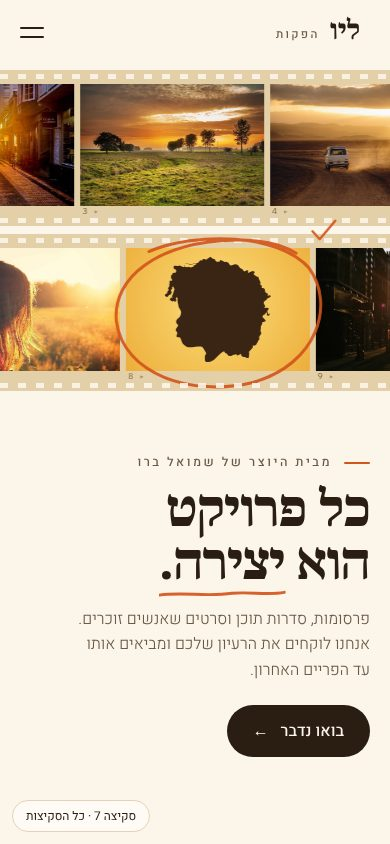
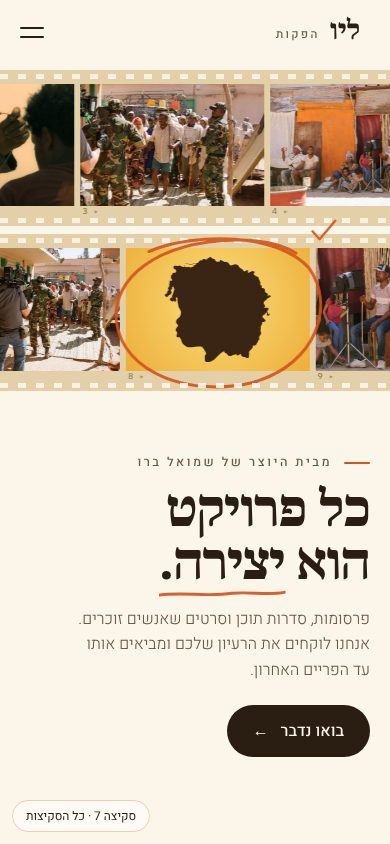
Sketches: real production photos everywhere, no video, new map page
Placeholder photos replaced with crops of five production photos, and
the placeholder work titles under them hidden. Openings rebuilt on
stills (full image, image in letters, collage, light animation). The
map page now shows every version at a glance with jump links.

Claude-Session: https://claude.ai/code/session_01WVQVaCY4fGJ7k5v4v453FP

Changed region(s): [[0.0, 0.0924, 1.0, 0.2464], [0.0, 0.2773, 0.3077, 0.4621], [0.8, 0.2773, 1.0, 0.4621]]

diff --git a/sketches/index.html b/sketches/index.html
@@ -66,242 +66,202 @@ main>.grp:first-child{margin-top:0}
 footer{border-top:1px solid var(--line);padding-block:22px 40px;font-size:13px;color:var(--mute)}
 footer a{text-underline-offset:3px}
 @media (prefers-reduced-motion:reduce){*{transition:none!important}}
+/* quick map */
+html{scroll-behavior:smooth;scroll-padding-top:64px}
+.jump{position:sticky;top:0;z-index:20;background:rgba(251,245,234,.92);-webkit-backdrop-filter:blur(10px);backdrop-filter:blur(10px);border-bottom:1px solid var(--line);margin-inline:calc(-1 * max(20px,env(safe-area-inset-left,0px)));padding:10px max(20px,env(safe-area-inset-left,0px))}
+.jump ul{display:flex;gap:8px;margin:0;padding:0;list-style:none;overflow-x:auto;scrollbar-width:none}
+.jump ul::-webkit-scrollbar{display:none}
+.jump a{display:block;white-space:nowrap;text-decoration:none;font-size:14px;font-weight:500;padding:7px 14px;border:1px solid var(--line);border-radius:99px;background:var(--paper)}
+.jump a:hover{border-color:var(--ink)}
+.quick{padding-block:clamp(22px,4vw,36px) 4px;display:grid;gap:clamp(18px,3vw,26px)}
+.quick h3{margin:0 0 10px}
+.tiles{display:grid;grid-template-columns:repeat(auto-fill,minmax(78px,1fr));gap:10px}
+.tile{display:grid;gap:6px;text-decoration:none;font-size:12.5px;font-weight:500;line-height:1.25;text-align:center}
+.tile img{width:100%;height:auto;aspect-ratio:390/700;object-fit:cover;object-position:top;border-radius:10px;border:1px solid var(--line);background:var(--paper);transition:transform .4s cubic-bezier(.2,.7,.2,1),border-color .3s}
+.tile:hover img{transform:translateY(-3px);border-color:var(--ink)}
+.tile b{display:block;font-weight:500;color:var(--gold-ink);font-size:11px;letter-spacing:.08em}
+@media (min-width:820px){.tiles{grid-template-columns:repeat(auto-fill,minmax(104px,1fr));gap:14px}.tile{font-size:13.5px}}
 </style>
 </head>
 <body>
 <div class="wrap">
   <header>
     <div class="brand"><i aria-hidden="true"></i><div><b>ליו</b><br><span>הפקות</span></div></div>
-    <h1>גרסה סופית, פתיחות וסקיצות</h1>
-    <p class="intro">תשעה כיוונים שונים לאותו תוכן: חמשת הראשונים, שניים נוספים ושניים ניטרליים. הטקסטים זהים לאתר הקיים, התמונות הן דוגמאות להמחשה בלבד. כדאי לפתוח כל סקיצה בטלפון, לגלול עד הסוף, ולבחור כיוון אחד או שניים לדיוק.</p>
-    <ul class="notes" aria-label="מה השתנה בכל הסקיצות">
-      <li>בלי לוח האירועים הרץ</li>
-      <li>בלי הקטע של ״האגר – ארץ״</li>
-      <li>בלי קטע ההרצאות</li>
-      <li>בלי טופס, רק טלפון ומייל</li>
-      <li>הצללית מופיעה פעם אחת במסך הפתיחה</li>
-    </ul>
+    <h1>כל הגרסאות במקום אחד</h1>
+    <p class="intro">ארבע עשרה גרסאות לאותו תוכן, עם תמונות מתוך הפקות של ליו. לחיצה על כל תמונה קטנה פותחת את הגרסה; למטה יש תיאור מפורט של כל אחת.</p>
   </header>
 
+  <nav class="jump" aria-label="קפיצה לקבוצה"><ul><li><a href="#final">גרסה סופית</a></li><li><a href="#open">פתיחות</a></li><li><a href="#warm">סקיצות חמות</a></li><li><a href="#neutral">סקיצות ניטרליות</a></li></ul></nav>
+
+  <section class="quick" aria-label="מבט מהיר">
+    <div><h3 class="grp">גרסה סופית</h3><div class="tiles"><a class="tile" href="final.html"><img src="previews/final-mobile.jpg" alt="" width="390" height="844"><span><b>גרסה סופית</b>נייר, עם סרטים בראש</span></a></div></div>
+    <div><h3 class="grp">פתיחות</h3><div class="tiles"><a class="tile" href="open-1.html"><img src="previews/open-1-mobile.jpg" alt="" width="390" height="844"><span><b>פתיחה 1</b>תמונה מלאה</span></a><a class="tile" href="open-2.html"><img src="previews/open-2-mobile.jpg" alt="" width="390" height="844"><span><b>פתיחה 2</b>תמונות באותיות</span></a><a class="tile" href="open-3.html"><img src="previews/open-3-mobile.jpg" alt="" width="390" height="844"><span><b>פתיחה 3</b>קולאז׳</span></a><a class="tile" href="open-4.html"><img src="previews/open-4-mobile.jpg" alt="" width="390" height="844"><span><b>פתיחה 4</b>הנפשת אור</span></a></div></div>
+    <div><h3 class="grp">סקיצות חמות</h3><div class="tiles"><a class="tile" href="1.html"><img src="previews/1-mobile.jpg" alt="" width="390" height="844"><span><b>סקיצה 1</b>קיר שמש</span></a><a class="tile" href="2.html"><img src="previews/2-mobile.jpg" alt="" width="390" height="844"><span><b>סקיצה 2</b>הראש מלא סרטים</span></a><a class="tile" href="3.html"><img src="previews/3-mobile.jpg" alt="" width="390" height="844"><span><b>סקיצה 3</b>פוסטר</span></a><a class="tile" href="4.html"><img src="previews/4-mobile.jpg" alt="" width="390" height="844"><span><b>סקיצה 4</b>גלריה</span></a><a class="tile" href="5.html"><img src="previews/5-mobile.jpg" alt="" width="390" height="844"><span><b>סקיצה 5</b>מסלול השמש</span></a><a class="tile" href="6.html"><img src="previews/6-mobile.jpg" alt="" width="390" height="844"><span><b>סקיצה 6</b>מוזאיקה</span></a><a class="tile" href="7.html"><img src="previews/7-mobile.jpg" alt="" width="390" height="844"><span><b>סקיצה 7</b>גיליון קונטקט</span></a></div></div>
+    <div><h3 class="grp">סקיצות ניטרליות</h3><div class="tiles"><a class="tile" href="8.html"><img src="previews/8-mobile.jpg" alt="" width="390" height="844"><span><b>סקיצה 8</b>נייר</span></a><a class="tile" href="9.html"><img src="previews/9-mobile.jpg" alt="" width="390" height="844"><span><b>סקיצה 9</b>אבן</span></a></div></div>
+  </section>
+
   <main>
-    <h3 class="grp">גרסה סופית</h3>
+    <h3 class="grp" id="final">גרסה סופית</h3>
 
     <a class="sk" href="final.html">
-      <div class="shots"><img class="d" src="previews/final-desktop.jpg" alt="הגרסה הסופית במחשב" width="1440" height="900"><img class="m" src="previews/final-mobile.jpg" alt="הגרסה הסופית בטלפון" width="390" height="844"></div>
+      <div class="shots"><img class="d" src="previews/final-desktop.jpg" alt="גרסה סופית במחשב" width="1440" height="900" loading="lazy"><img class="m" src="previews/final-mobile.jpg" alt="גרסה סופית בטלפון" width="390" height="844" loading="lazy"></div>
       <div class="txt">
         <span class="no">גרסה סופית</span>
         <h2>נייר, עם סרטים בראש</h2>
-        <p>הבסיס הניטרלי של סקיצה 8, עם הפריימים המתחלפים בתוך הצללית מסקיצה 2. סדר התוכן והניסוחים עודכנו לפי שתי הביקורות: המסר קודם, העבודות מיד אחריו.</p>
-        <dl class="meta">
-          <div><dt>פונטים</dt><dd>Heebo</dd></div>
-          <div><dt>צללית</dt><dd>חלון שדרכו רואים את הצילומים</dd></div>
-          <div><dt>סדר</dt><dd>פתיחה, עבודות, לקוחות, שירותים, תהליך, אודות, קשר</dd></div>
-        </dl>
+        <p>הבסיס הניטרלי של סקיצה 8, עם פריימים שמתחלפים בתוך הצללית. סדר התוכן והניסוחים עודכנו: המסר קודם, העבודות מיד אחריו.</p>
+        <dl class="meta"><div><dt>פונטים</dt><dd>Heebo</dd></div><div><dt>צללית</dt><dd>חלון שדרכו רואים את הצילומים</dd></div><div><dt>סדר</dt><dd>פתיחה, עבודות, לקוחות, שירותים, תהליך, אודות, קשר</dd></div></dl>
         <span class="go">לצפייה בגרסה <span aria-hidden="true">←</span></span>
       </div>
     </a>
-
-    <h3 class="grp">פתיחה עם וידאו או הנפשה</h3>
+    <h3 class="grp" id="open">ארבע פתיחות לגרסה הסופית</h3>
 
     <a class="sk" href="open-1.html">
-      <div class="shots"><img class="d" src="previews/open-1-desktop.jpg" alt="פתיחה 1 במחשב" width="1440" height="900"><img class="m" src="previews/open-1-mobile.jpg" alt="פתיחה 1 בטלפון" width="390" height="844"></div>
+      <div class="shots"><img class="d" src="previews/open-1-desktop.jpg" alt="פתיחה 1 במחשב" width="1440" height="900" loading="lazy"><img class="m" src="previews/open-1-mobile.jpg" alt="פתיחה 1 בטלפון" width="390" height="844" loading="lazy"></div>
       <div class="txt">
         <span class="no">פתיחה 1</span>
-        <h2>וידאו מלא</h2>
-        <p>הווידאו ממלא את כל מסך הפתיחה, והטקסט יושב על לוח בהיר שנחתך לתוכו.</p>
-        <dl class="meta">
-          <div><dt>רקע</dt><dd>וידאו מקצה לקצה</dd></div>
-          <div><dt>צללית</dt><dd>קטנה, בלוגו שבתפריט</dd></div>
-          <div><dt>מתאים ל</dt><dd>שואוריל רחב ומרשים</dd></div>
-        </dl>
+        <h2>תמונה מלאה</h2>
+        <p>תמונות מתחלפות ממלאות את כל מסך הפתיחה, והטקסט יושב על לוח בהיר שנחתך לתוכן.</p>
+        <dl class="meta"><div><dt>רקע</dt><dd>תמונות מקצה לקצה</dd></div><div><dt>צללית</dt><dd>קטנה, בלוגו שבתפריט</dd></div><div><dt>בהמשך</dt><dd>אפשר להחליף לווידאו</dd></div></dl>
         <span class="go">לצפייה בפתיחה <span aria-hidden="true">←</span></span>
       </div>
     </a>
 
     <a class="sk" href="open-2.html">
-      <div class="shots"><img class="d" src="previews/open-2-desktop.jpg" alt="פתיחה 2 במחשב" width="1440" height="900"><img class="m" src="previews/open-2-mobile.jpg" alt="פתיחה 2 בטלפון" width="390" height="844"></div>
+      <div class="shots"><img class="d" src="previews/open-2-desktop.jpg" alt="פתיחה 2 במחשב" width="1440" height="900" loading="lazy"><img class="m" src="previews/open-2-mobile.jpg" alt="פתיחה 2 בטלפון" width="390" height="844" loading="lazy"></div>
       <div class="txt">
         <span class="no">פתיחה 2</span>
-        <h2>וידאו באותיות</h2>
-        <p>הכותרת הענקית היא החלון: הווידאו נראה רק דרך האותיות, על רקע נקי.</p>
-        <dl class="meta">
-          <div><dt>רקע</dt><dd>וידאו בתוך הכותרת</dd></div>
-          <div><dt>צללית</dt><dd>קטנה, בלוגו שבתפריט</dd></div>
-          <div><dt>מתאים ל</dt><dd>כמעט כל חומר, גם מעורב</dd></div>
-        </dl>
+        <h2>תמונות באותיות</h2>
+        <p>הכותרת הענקית היא החלון: התמונות נראות רק דרך האותיות, על רקע נקי.</p>
+        <dl class="meta"><div><dt>רקע</dt><dd>תמונות בתוך הכותרת</dd></div><div><dt>צללית</dt><dd>קטנה, בלוגו שבתפריט</dd></div><div><dt>בהמשך</dt><dd>אפשר להחליף לווידאו</dd></div></dl>
         <span class="go">לצפייה בפתיחה <span aria-hidden="true">←</span></span>
       </div>
     </a>
 
     <a class="sk" href="open-3.html">
-      <div class="shots"><img class="d" src="previews/open-3-desktop.jpg" alt="פתיחה 3 במחשב" width="1440" height="900"><img class="m" src="previews/open-3-mobile.jpg" alt="פתיחה 3 בטלפון" width="390" height="844"></div>
+      <div class="shots"><img class="d" src="previews/open-3-desktop.jpg" alt="פתיחה 3 במחשב" width="1440" height="900" loading="lazy"><img class="m" src="previews/open-3-mobile.jpg" alt="פתיחה 3 בטלפון" width="390" height="844" loading="lazy"></div>
       <div class="txt">
         <span class="no">פתיחה 3</span>
-        <h2>וידאו בתוך הצללית</h2>
-        <p>כמו הגרסה הסופית, אבל בראש של הילד רץ וידאו אמיתי במקום תמונות מתחלפות.</p>
-        <dl class="meta">
-          <div><dt>רקע</dt><dd>וידאו בתוך הראש</dd></div>
-          <div><dt>צללית</dt><dd>גדולה, חלון לווידאו</dd></div>
-          <div><dt>מתאים ל</dt><dd>קטעים עם מרכז ברור</dd></div>
-        </dl>
+        <h2>קולאז׳</h2>
+        <p>שלוש תמונות מהסט ומהסרט מרחפות לאט ליד הכותרת.</p>
+        <dl class="meta"><div><dt>רקע</dt><dd>נקי, עם שלוש תמונות</dd></div><div><dt>צללית</dt><dd>קטנה, בלוגו שבתפריט</dd></div><div><dt>תנועה</dt><dd>ריחוף עדין</dd></div></dl>
         <span class="go">לצפייה בפתיחה <span aria-hidden="true">←</span></span>
       </div>
     </a>
 
     <a class="sk" href="open-4.html">
-      <div class="shots"><img class="d" src="previews/open-4-desktop.jpg" alt="פתיחה 4 במחשב" width="1440" height="900"><img class="m" src="previews/open-4-mobile.jpg" alt="פתיחה 4 בטלפון" width="390" height="844"></div>
+      <div class="shots"><img class="d" src="previews/open-4-desktop.jpg" alt="פתיחה 4 במחשב" width="1440" height="900" loading="lazy"><img class="m" src="previews/open-4-mobile.jpg" alt="פתיחה 4 בטלפון" width="390" height="844" loading="lazy"></div>
       <div class="txt">
         <span class="no">פתיחה 4</span>
         <h2>הנפשת אור</h2>
-        <p>בלי חומר מצולם: כתמי אור חמים נעים לאט מאחורי הצללית.</p>
-        <dl class="meta">
-          <div><dt>רקע</dt><dd>הנפשה שנוצרת בדפדפן</dd></div>
-          <div><dt>צללית</dt><dd>גדולה, פחם מלא</dd></div>
-          <div><dt>מתאים ל</dt><dd>עלייה לאוויר לפני שיש וידאו</dd></div>
-        </dl>
+        <p>בלי תמונה בפתיחה: כתמי אור חמים נעים לאט מאחורי הצללית.</p>
+        <dl class="meta"><div><dt>רקע</dt><dd>הנפשה שנוצרת בדפדפן</dd></div><div><dt>צללית</dt><dd>גדולה, פחם מלא</dd></div><div><dt>תנועה</dt><dd>אור שזז לאט</dd></div></dl>
         <span class="go">לצפייה בפתיחה <span aria-hidden="true">←</span></span>
       </div>
     </a>
+    <h3 class="grp" id="warm">שבע סקיצות בגוון חם</h3>
 
-    <h3 class="grp">חמשת הכיוונים הראשונים</h3>
     <a class="sk" href="1.html">
-      <div class="shots"><img class="d" src="previews/1-desktop.jpg" alt="סקיצה 1 במחשב" width="1440" height="900"><img class="m" src="previews/1-mobile.jpg" alt="סקיצה 1 בטלפון" width="390" height="844"></div>
+      <div class="shots"><img class="d" src="previews/1-desktop.jpg" alt="סקיצה 1 במחשב" width="1440" height="900" loading="lazy"><img class="m" src="previews/1-mobile.jpg" alt="סקיצה 1 בטלפון" width="390" height="844" loading="lazy"></div>
       <div class="txt">
         <span class="no">סקיצה 1</span>
         <h2>קיר שמש</h2>
         <p>הכי קרוב לתמונת המותג: קיר מואר בשמש של אחר הצהריים, צללי עלים שזזים לאט, והצללית מול שמש עולה.</p>
-        <dl class="meta">
-          <div><dt>פונטים</dt><dd>Frank Ruhl Libre · Heebo</dd></div>
-          <div><dt>צללית</dt><dd>חום אספרסו עם אור שמש מאחור</dd></div>
-          <div><dt>תנועה</dt><dd>זריחה בטעינה, צללי עלים חיים</dd></div>
-        </dl>
+        <dl class="meta"><div><dt>פונטים</dt><dd>Frank Ruhl Libre · Heebo</dd></div><div><dt>צללית</dt><dd>חום אספרסו עם אור שמש מאחור</dd></div><div><dt>תנועה</dt><dd>זריחה בטעינה, צללי עלים חיים</dd></div></dl>
         <span class="go">לצפייה בסקיצה <span aria-hidden="true">←</span></span>
       </div>
     </a>
 
     <a class="sk" href="2.html">
-      <div class="shots"><img class="d" src="previews/2-desktop.jpg" alt="סקיצה 2 במחשב" width="1440" height="900"><img class="m" src="previews/2-mobile.jpg" alt="סקיצה 2 בטלפון" width="390" height="844"></div>
+      <div class="shots"><img class="d" src="previews/2-desktop.jpg" alt="סקיצה 2 במחשב" width="1440" height="900" loading="lazy"><img class="m" src="previews/2-mobile.jpg" alt="סקיצה 2 בטלפון" width="390" height="844" loading="lazy"></div>
       <div class="txt">
         <span class="no">סקיצה 2</span>
         <h2>הראש מלא סרטים</h2>
         <p>הצללית היא המסך: בתוך הראש של הילד מתחלפים פריימים מההפקות. נקי, מודרני ומדויק.</p>
-        <dl class="meta">
-          <div><dt>פונטים</dt><dd>IBM Plex Sans Hebrew · IBM Plex Mono</dd></div>
-          <div><dt>צללית</dt><dd>חלון שדרכו רואים את הצילומים</dd></div>
-          <div><dt>תנועה</dt><dd>פריימים מתחלפים בתוך הצללית</dd></div>
-        </dl>
+        <dl class="meta"><div><dt>פונטים</dt><dd>IBM Plex Sans Hebrew · IBM Plex Mono</dd></div><div><dt>צללית</dt><dd>חלון שדרכו רואים את הצילומים</dd></div><div><dt>תנועה</dt><dd>פריימים מתחלפים בתוך הצללית</dd></div></dl>
         <span class="go">לצפייה בסקיצה <span aria-hidden="true">←</span></span>
       </div>
     </a>
 
     <a class="sk" href="3.html">
-      <div class="shots"><img class="d" src="previews/3-desktop.jpg" alt="סקיצה 3 במחשב" width="1440" height="900"><img class="m" src="previews/3-mobile.jpg" alt="סקיצה 3 בטלפון" width="390" height="844"></div>
+      <div class="shots"><img class="d" src="previews/3-desktop.jpg" alt="סקיצה 3 במחשב" width="1440" height="900" loading="lazy"><img class="m" src="previews/3-mobile.jpg" alt="סקיצה 3 בטלפון" width="390" height="844" loading="lazy"></div>
       <div class="txt">
         <span class="no">סקיצה 3</span>
         <h2>פוסטר</h2>
-        <p>טיפוגרפיה ענקית כמו כרזת פסטיבל, צללית כתומה שמשתלבת באותיות, ומשטחי צבע חמים. הכיוון הצעיר והנועז.</p>
-        <dl class="meta">
-          <div><dt>פונטים</dt><dd>Karantina · Noto Sans Hebrew</dd></div>
-          <div><dt>צללית</dt><dd>כתום שרוף, שטוח</dd></div>
-          <div><dt>תנועה</dt><dd>כותרות נשלפות, חותמת מסתובבת, פסים רצים</dd></div>
-        </dl>
+        <p>טיפוגרפיה ענקית כמו כרזת פסטיבל, צללית כתומה שמשתלבת באותיות, ומשטחי צבע חמים.</p>
+        <dl class="meta"><div><dt>פונטים</dt><dd>Karantina · Noto Sans Hebrew</dd></div><div><dt>צללית</dt><dd>כתום שרוף, שטוח</dd></div><div><dt>תנועה</dt><dd>כותרות נשלפות, חותמת מסתובבת, פסים רצים</dd></div></dl>
         <span class="go">לצפייה בסקיצה <span aria-hidden="true">←</span></span>
       </div>
     </a>
 
     <a class="sk" href="4.html">
-      <div class="shots"><img class="d" src="previews/4-desktop.jpg" alt="סקיצה 4 במחשב" width="1440" height="900"><img class="m" src="previews/4-mobile.jpg" alt="סקיצה 4 בטלפון" width="390" height="844"></div>
+      <div class="shots"><img class="d" src="previews/4-desktop.jpg" alt="סקיצה 4 במחשב" width="1440" height="900" loading="lazy"><img class="m" src="previews/4-mobile.jpg" alt="סקיצה 4 בטלפון" width="390" height="844" loading="lazy"></div>
       <div class="txt">
         <span class="no">סקיצה 4</span>
         <h2>גלריה</h2>
-        <p>שקט ואלגנטי, עם הרבה אוויר וקווים דקים. הצללית מצוירת בקו זהב אחד, והעבודות מוצגות כמו בתערוכה.</p>
-        <dl class="meta">
-          <div><dt>פונטים</dt><dd>Bellefair · Assistant</dd></div>
-          <div><dt>צללית</dt><dd>קו זהב דק שמצייר את עצמו</dd></div>
-          <div><dt>תנועה</dt><dd>ציור הקו בטעינה, חשיפות איטיות</dd></div>
-        </dl>
+        <p>שקט ואלגנטי, עם הרבה אוויר וקווים דקים. הצללית מצוירת בקו זהב, והעבודות מוצגות כמו בתערוכה.</p>
+        <dl class="meta"><div><dt>פונטים</dt><dd>Bellefair · Assistant</dd></div><div><dt>צללית</dt><dd>קו זהב דק שמצייר את עצמו</dd></div><div><dt>תנועה</dt><dd>ציור הקו בטעינה, חשיפות איטיות</dd></div></dl>
         <span class="go">לצפייה בסקיצה <span aria-hidden="true">←</span></span>
       </div>
     </a>
 
     <a class="sk" href="5.html">
-      <div class="shots"><img class="d" src="previews/5-desktop.jpg" alt="סקיצה 5 במחשב" width="1440" height="900"><img class="m" src="previews/5-mobile.jpg" alt="סקיצה 5 בטלפון" width="390" height="844"></div>
+      <div class="shots"><img class="d" src="previews/5-desktop.jpg" alt="סקיצה 5 במחשב" width="1440" height="900" loading="lazy"><img class="m" src="previews/5-mobile.jpg" alt="סקיצה 5 בטלפון" width="390" height="844" loading="lazy"></div>
       <div class="txt">
         <span class="no">סקיצה 5</span>
         <h2>מסלול השמש</h2>
-        <p>יום שלם של אור לאורך הגלילה: השמש זורחת בפתיחה, עולה באמצע ושוקעת ליד פרטי הקשר, והצבעים משתנים איתה.</p>
-        <dl class="meta">
-          <div><dt>פונטים</dt><dd>Suez One · Rubik</dd></div>
-          <div><dt>צללית</dt><dd>חום טרקוטה, על קו האופק</dd></div>
-          <div><dt>תנועה</dt><dd>שמש שנעה עם הגלילה</dd></div>
-        </dl>
+        <p>יום שלם של אור לאורך הגלילה: השמש זורחת בפתיחה ושוקעת ליד פרטי הקשר, והצבעים משתנים איתה.</p>
+        <dl class="meta"><div><dt>פונטים</dt><dd>Suez One · Rubik</dd></div><div><dt>צללית</dt><dd>חום טרקוטה, על קו האופק</dd></div><div><dt>תנועה</dt><dd>שמש שנעה עם הגלילה</dd></div></dl>
         <span class="go">לצפייה בסקיצה <span aria-hidden="true">←</span></span>
       </div>
-    </a>    <h3 class="grp">שני כיוונים נוספים</h3>
+    </a>
 
     <a class="sk" href="6.html">
-      <div class="shots"><img class="d" src="previews/6-desktop.jpg" alt="סקיצה 6 במחשב" width="1440" height="900"><img class="m" src="previews/6-mobile.jpg" alt="סקיצה 6 בטלפון" width="390" height="844"></div>
+      <div class="shots"><img class="d" src="previews/6-desktop.jpg" alt="סקיצה 6 במחשב" width="1440" height="900" loading="lazy"><img class="m" src="previews/6-mobile.jpg" alt="סקיצה 6 בטלפון" width="390" height="844" loading="lazy"></div>
       <div class="txt">
         <span class="no">סקיצה 6</span>
         <h2>מוזאיקה</h2>
-        <p>כל האתר בנוי מאריחים מעוגלים, כמו מסך של אפליקציה: כותרת, צללית, פריימים חיים ועובדות, כולם במסך אחד.</p>
-        <dl class="meta">
-          <div><dt>פונטים</dt><dd>Assistant</dd></div>
-          <div><dt>צללית</dt><dd>חום כהה על אריח זהוב, שמש מאחור</dd></div>
-          <div><dt>תנועה</dt><dd>אריחים שמתחברים בטעינה, פריימים חיים</dd></div>
-        </dl>
+        <p>כל האתר בנוי מאריחים מעוגלים, כמו מסך של אפליקציה: כותרת, צללית, פריימים חיים ועובדות במסך אחד.</p>
+        <dl class="meta"><div><dt>פונטים</dt><dd>Assistant</dd></div><div><dt>צללית</dt><dd>חום כהה על אריח זהוב, שמש מאחור</dd></div><div><dt>תנועה</dt><dd>אריחים שמתחברים בטעינה</dd></div></dl>
         <span class="go">לצפייה בסקיצה <span aria-hidden="true">←</span></span>
       </div>
     </a>
 
     <a class="sk" href="7.html">
-      <div class="shots"><img class="d" src="previews/7-desktop.jpg" alt="סקיצה 7 במחשב" width="1440" height="900"><img class="m" src="previews/7-mobile.jpg" alt="סקיצה 7 בטלפון" width="390" height="844"></div>
+      <div class="shots"><img class="d" src="previews/7-desktop.jpg" alt="סקיצה 7 במחשב" width="1440" height="900" loading="lazy"><img class="m" src="previews/7-mobile.jpg" alt="סקיצה 7 בטלפון" width="390" height="844" loading="lazy"></div>
       <div class="txt">
         <span class="no">סקיצה 7</span>
         <h2>גיליון קונטקט</h2>
         <p>בשפה של המקצוע: רצועות פריימים על נייר, מספרי פריים, וסימון בעיפרון שמקיף את הפריים הנבחר.</p>
-        <dl class="meta">
-          <div><dt>פונטים</dt><dd>Noto Serif Hebrew · Heebo</dd></div>
-          <div><dt>צללית</dt><dd>פריים נבחר ברצועה, מוקף בעיפרון כתום</dd></div>
-          <div><dt>תנועה</dt><dd>סימוני עיפרון שמציירים את עצמם, רצועה נעה</dd></div>
-        </dl>
+        <dl class="meta"><div><dt>פונטים</dt><dd>Noto Serif Hebrew · Heebo</dd></div><div><dt>צללית</dt><dd>פריים נבחר ברצועה, מוקף בעיפרון כתום</dd></div><div><dt>תנועה</dt><dd>סימוני עיפרון שמציירים את עצמם</dd></div></dl>
         <span class="go">לצפייה בסקיצה <span aria-hidden="true">←</span></span>
       </div>
     </a>
-    <h3 class="grp">שני כיוונים ניטרליים</h3>
+    <h3 class="grp" id="neutral">שתי סקיצות ניטרליות</h3>
 
     <a class="sk" href="8.html">
-      <div class="shots"><img class="d" src="previews/8-desktop.jpg" alt="סקיצה 8 במחשב" width="1440" height="900"><img class="m" src="previews/8-mobile.jpg" alt="סקיצה 8 בטלפון" width="390" height="844"></div>
+      <div class="shots"><img class="d" src="previews/8-desktop.jpg" alt="סקיצה 8 במחשב" width="1440" height="900" loading="lazy"><img class="m" src="previews/8-mobile.jpg" alt="סקיצה 8 בטלפון" width="390" height="844" loading="lazy"></div>
       <div class="txt">
         <span class="no">סקיצה 8</span>
         <h2>נייר</h2>
-        <p>ניטרלי ומודרני: לבן שבור, פחם, בלי צהוב וחום. הצבע היחיד בעמוד מגיע מהצילומים עצמם.</p>
-        <dl class="meta">
-          <div><dt>פונטים</dt><dd>Heebo</dd></div>
-          <div><dt>צללית</dt><dd>פחם מלא, עם נקודת שמש אחת</dd></div>
-          <div><dt>תנועה</dt><dd>מהירה ומדויקת: כותרות עולות, קווים נמתחים</dd></div>
-        </dl>
+        <p>ניטרלי ומודרני: לבן שבור ופחם, בלי צהוב וחום. הצבע בעמוד מגיע מהצילומים עצמם.</p>
+        <dl class="meta"><div><dt>פונטים</dt><dd>Heebo</dd></div><div><dt>צללית</dt><dd>פחם מלא, עם נקודת שמש אחת</dd></div><div><dt>תנועה</dt><dd>מהירה ומדויקת</dd></div></dl>
         <span class="go">לצפייה בסקיצה <span aria-hidden="true">←</span></span>
       </div>
     </a>
 
     <a class="sk" href="9.html">
-      <div class="shots"><img class="d" src="previews/9-desktop.jpg" alt="סקיצה 9 במחשב" width="1440" height="900"><img class="m" src="previews/9-mobile.jpg" alt="סקיצה 9 בטלפון" width="390" height="844"></div>
+      <div class="shots"><img class="d" src="previews/9-desktop.jpg" alt="סקיצה 9 במחשב" width="1440" height="900" loading="lazy"><img class="m" src="previews/9-mobile.jpg" alt="סקיצה 9 בטלפון" width="390" height="844" loading="lazy"></div>
       <div class="txt">
         <span class="no">סקיצה 9</span>
         <h2>אבן</h2>
-        <p>ניטרלי ורך בגווני אבן. הצללית היא תבליט באותו צבע של הקיר, ורואים אותה רק בזכות האור שנע עליה.</p>
-        <dl class="meta">
-          <div><dt>פונטים</dt><dd>Frank Ruhl Libre · Assistant</dd></div>
-          <div><dt>צללית</dt><dd>תבליט בגוון הקיר</dd></div>
-          <div><dt>תנועה</dt><dd>אור שנע על התבליט, צבע שנכנס לצילומים</dd></div>
-        </dl>
+        <p>ניטרלי ורך בגווני אבן. הצללית היא תבליט בצבע הקיר, ורואים אותה רק בזכות האור שנע עליה.</p>
+        <dl class="meta"><div><dt>פונטים</dt><dd>Frank Ruhl Libre · Assistant</dd></div><div><dt>צללית</dt><dd>תבליט בגוון הקיר</dd></div><div><dt>תנועה</dt><dd>אור שנע על התבליט</dd></div></dl>
         <span class="go">לצפייה בסקיצה <span aria-hidden="true">←</span></span>
       </div>
     </a>
   </main>
 
-  <footer>התמונות בסקיצות הן דוגמאות להמחשה ויוחלפו בפריימים מההפקות. <a href="../index.html">לאתר הנוכחי</a></footer>
+  <footer>התמונות הן מתוך הפקות של ליו. הטקסטים והפרטים עדיין בבדיקה. <a href="../index.html">לאתר הנוכחי</a></footer>
 </div>
 </body>
 </html>
